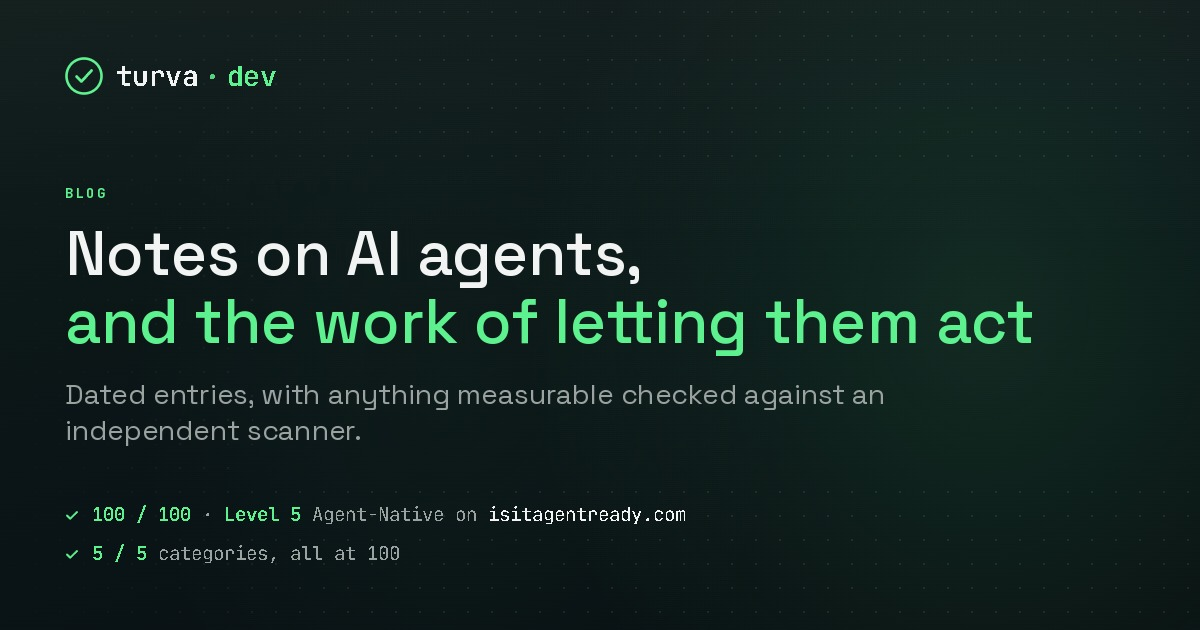
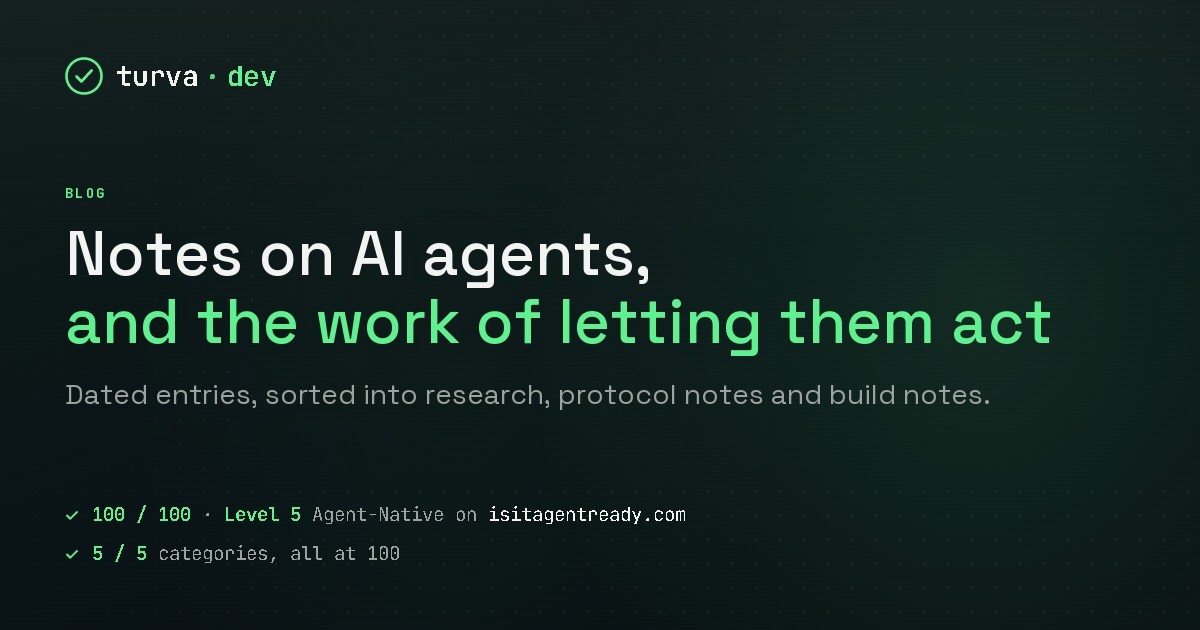
Site 3.213.5. Content fixes from the outside review of 2026-10-07: the AI patch surge post now cites curl's sponsor page and Daniel Stenberg's own reason for ending the bug bounty, and no longer says curl is run by volunteers who cannot fund a filter. Dated corrections in the posts on the clean Wind

Changed region(s): [[0.0925, 0.3619, 0.8942, 0.573], [0.0617, 0.6032, 0.8325, 0.7238], [0.0617, 0.3016, 0.0925, 0.3317]]

diff --git a/turva-worker/src/worker.ts b/turva-worker/src/worker.ts
@@ -1,4 +1,5 @@
 // src/worker.ts
+// turva.dev worker v3.213.5 - fixes from the outside review of 2026-10-07, content session S1 (Tek-578): the AI patch surge post no longer says curl is run by volunteers who cannot fund a filter, and cites curl's sponsor page and Stenberg's own reason for ending the bounty; dated corrections in the posts on the clean Windows install (IVPN boot protection), the Open Knowledge Format (what v0.1 defines) and secret hygiene (an OS vault after a reinstall); the sample report no longer says ai.txt merged into Content Signals; the llms.txt validator states its limits in KiB; the ACP messages and the Shopify page promise a first written reply within one business day, with scope and a fixed quote confirmed in writing before payment; the blog card's subhead and alt text name the three post kinds.
 // turva.dev worker v3.213.4 - the hosted Markdown parity check moves to markdown-parity-check 0.2.29, so a query is masked in one pass and report text drops C1 and bidi controls.
 // turva.dev worker v3.213.3 - the markdown link rule refuses an href carrying a quote, an angle bracket or whitespace (outside review R1-1, 2026-10-22), the disabled phase-2 PARITY path checks the report shape before use (R4-1), and the MCP server card moves to MCP 1.6.22 (the MCP Worker answers a non-JSON Content-Type with 415 and no id).
 // turva.dev worker v3.213.2 - the Shopify agent storefront check's line in LLMS_TXT and in AGENT_JSON's description_for_model (served as ai-plugin.json and agent.json) states that the 48 hours run from the agreed written kickoff, as the audit's line in both already does; re-sign of llms.txt and of ai-plugin.json and agent.json.
@@ -1416,7 +1417,7 @@ A third case I know of is my own code, from before the reinstall, so it is not o
 
 ## What else sits between the machine and the internet?
 
-My connection goes out through IVPN, which I have set to rotate its WireGuard key every day. Its firewall is set to always on, so it starts at boot before any other process and blocks traffic outside the VPN even when the IVPN app is not running. It lets through traffic to IVPN's own servers and to my local network. Windows treats both the IVPN tunnel and my wired connection as public networks, so its firewall applies its most restrictive profile to both. IVPN is behind three of these pieces: it runs the VPN and modDNS, and in December 2024 it bought Safing, the company behind Portmaster. In the IVPN app I have set modDNS as the custom DNS, and it filters with the HaGeZi Threat Intelligence Feeds and Pro lists, plus a HaGeZi list of domains registered within the last seven days. I have checked that my lookups reach it. For one day I collected the domains modDNS blocked, and I copied every one whose block breaks nothing into the Windows hosts file, as a second block in Windows itself. After that they disappeared from the modDNS log, so those lookups now stop in Windows before they reach it. The browsers have a modDNS setup of their own. HaGeZi publishes stricter lists than Pro, so I still count these list choices as relaxed. I use these lists in all my work. If the machine ever reached my router without the VPN, the router runs the NextDNS CLI with much stricter HaGeZi lists. As far as I know, that has never happened without me choosing it.
+My connection goes out through IVPN, which I have set to rotate its WireGuard key every day. Its firewall is set to always on, so on Windows it [applies its blocking rules at boot](https://www.ivpn.net/knowledgebase/general/do-you-offer-a-kill-switch-or-vpn-firewall/), before the system has finished loading, and they block traffic outside the VPN even when the IVPN app is not running. It lets through traffic to IVPN's own servers and to my local network. Windows treats both the IVPN tunnel and my wired connection as public networks, so its firewall applies its most restrictive profile to both. IVPN is behind three of these pieces: it runs the VPN and modDNS, and in December 2024 it bought Safing, the company behind Portmaster. In the IVPN app I have set modDNS as the custom DNS, and it filters with the HaGeZi Threat Intelligence Feeds and Pro lists, plus a HaGeZi list of domains registered within the last seven days. I have checked that my lookups reach it. For one day I collected the domains modDNS blocked, and I copied every one whose block breaks nothing into the Windows hosts file, as a second block in Windows itself. After that they disappeared from the modDNS log, so those lookups now stop in Windows before they reach it. The browsers have a modDNS setup of their own. HaGeZi publishes stricter lists than Pro, so I still count these list choices as relaxed. I use these lists in all my work. If the machine ever reached my router without the VPN, the router runs the NextDNS CLI with much stricter HaGeZi lists. As far as I know, that has never happened without me choosing it.
 
 ## What may an agent session not touch?
 
@@ -1466,6 +1467,8 @@ The clone is a full copy of the system disk. A session that can read it can read
 **What does Block Secure DNS Bypassing do in Portmaster?**
 
 It prevents apps from going past Portmaster's Secure DNS resolver, for example by using DNS over HTTPS or a public resolver. Lookups then go through Portmaster, which can filter them.
+
+Corrected 2026-10-23. The IVPN sentence said its firewall starts at boot before any other process. IVPN's own description makes no claim about process order. On Windows, it says, the persistent firewall applies its blocking rules at boot, before the system is fully loaded, so the sentence now says: "Its firewall is set to always on, so on Windows it applies its blocking rules at boot, before the system has finished loading, and they block traffic outside the VPN even when the IVPN app is not running."
 
 ## Related
 
@@ -3080,9 +3083,9 @@ That has a consequence worth sitting with. Access to Mythos is controlled by Ant
 
 In January 2026 the curl project shut down its bug bounty. Twenty reports arrived in the first twenty-one days of the year, seven of them in one 16-hour window, and none was a real vulnerability, according to [Bugcrowd's account of the shutdown](https://www.bugcrowd.com/blog/hacker-opinion-piece-how-lazy-hacking-killed-curls-bug-bounty). Daniel Stenberg called such reports AI slop. HackerOne reported March 2026 submissions up 76 % year over year, with the share of valid findings steady at roughly 25 % ([HackerOne](https://www.hackerone.com/blog/continuous-threat-exposure-management-remediation-crisis)). Google raised the proof it requires in its open-source reward programme after a surge of low-quality reports ([Google's rule update](https://bughunters.google.com/blog/ossvrp-rule-updates-2026)). GitHub tightened its requirements.
 
-So in the same six months, one organisation shipped 1150 real CVEs and credited AI-assisted discovery for the rise, and another was driven out of the bounty business by AI reports that were worth nothing.
+So in the same six months, one organisation shipped 1150 real CVEs and credited AI-assisted discovery for the rise, and another ended its bug bounty when its share of real findings collapsed, with AI slop the first of three causes its lead developer names.
 
-Same technology. The difference is the prove pipeline. Microsoft built one, with dedicated cloud infrastructure behind it. curl is volunteers, and volunteers cannot fund a filter, so the only move left was to close the door.
+Same technology. The difference is the prove pipeline. Microsoft built one, with dedicated cloud infrastructure behind it. curl has paid backing too: its [sponsor page](https://curl.se/sponsors.html) names Haxx as the primary sponsor and says wolfSSL employs Daniel Stenberg and lets him spend paid work hours on curl. For bounty reports it relied on the platform's reputation system and program settings, and in [his account of the shutdown](https://daniel.haxx.se/blog/2026/01/26/the-end-of-the-curl-bug-bounty/) Stenberg writes that these were not enough to keep the bad reports out. The share of submissions confirmed as vulnerabilities fell from above 15 % in earlier years to below 5 % in 2025, and curl dropped the rewards to remove the incentive to submit made-up reports. Pull requests are a different case, Stenberg writes: tests, scanners and 200 CI jobs check a contribution before anyone spends human time on it, so they are not a problem for curl.
 
 ## Check it yourself
 
@@ -3113,6 +3116,8 @@ Corrected 2026-09-28. A sentence said the two benchmark figures came from condit
 Corrected 2026-10-02. Several sentences claimed more than their sources. The Mythos sentence said Anthropic's own evaluation conditions are not published, and the 2026-09-28 note above repeats it. Anthropic's system card publishes the task count, pass@1 scoring and sampling settings but does not name the CyberGym difficulty level, so it now says: "Microsoft names its side of the setup, the CyberGym default level 1 configuration across 1507 tasks from 188 OSS-Fuzz projects, but Anthropic's system card gives only part of its setup for Mythos, pass@1 over the same 1507 tasks with no extended thinking, and does not name the CyberGym difficulty level, so the two scores cannot be assumed to share a setup, and a gap of 5,35 percentage points does not show that either approach is better." The same sentence also said five points is well inside what a difference in evaluation setup can produce, which no cited source quantifies, so it now says the gap does not show either approach is better. The Microsoft post is longer than about 1400 words and carries ordinary numerals, so the sentence now says it gives no figure for the increase. HackerOne's 76 % is March 2026 against March 2025, not a year through March, and HackerOne reports the valid share steady at roughly 25 %, so the noise claim is gone. The three-quarters-noise wording, the DDoS attribution and the claim that Google stopped taking AI-generated submissions are replaced by what the linked sources say.
 
 Corrected 2026-10-14. This post counted every CVE in each monthly document, including the CVEs other numbering authorities assigned, mostly Chromium CVEs for Edge and Linux CVEs for Azure Linux. Counted as Microsoft-assigned only, the rise is steeper: the eight baseline months average 130 and July 2026 is 663, or 5,1 times. The severity table does not hold under that count. For Microsoft-assigned CVEs the median CVSS was 7,8 in July 2025 and 7,8 in July 2026, with 76,6 % and 74,2 % scoring 7,0 or above. The shift reported above therefore came from the mix of CVEs in the documents and not from Microsoft's own findings. The July 2026 document has also grown to 2005 entries since this post was written, and most of the added entries are Chromium and Linux CVEs. The tables above are left as the endpoint returned them, and the full series is in [the October follow-up](/blog/microsofts-own-cve-count).
+
+Corrected 2026-10-23. The bounty section said curl had no money to fund a filter for reports, so closing the bounty was its only option, and that AI reports worth nothing drove it out of the bounty business. curl's sponsor page contradicts the first claim. Stenberg's own account of the shutdown names three causes, AI slop the first of them, and does not call closing the bounty the only option. The paragraph now says: "curl has paid backing too: its sponsor page names Haxx as the primary sponsor and says wolfSSL employs Daniel Stenberg and lets him spend paid work hours on curl." It gives the reason Stenberg gives for dropping the rewards, and the paragraph before it now says that AI slop is the first of three causes he names.
 
 ## Related
 
@@ -3150,7 +3155,7 @@ Credential managers are built to store one username and password per host. They 
 
 For those, a small file based vault does the job. Encrypt each value with the same OS primitive, keep them in one file, and give it a get command. A deploy script then reads the token when it runs, setting the environment variable from that call instead of from a file on disk. The file is encrypted and tied to your account, so a backup or a stray copy exposes nothing.
 
-Two caveats. A vault tied to your OS user cannot be decrypted after a reinstall, so keep an offline backup of anything you cannot regenerate, like a private signing key. And do not write your own crypto here. Call the OS primitive. It is audited, and it is the same mechanism your credential manager already trusts.
+Two caveats. A vault encrypted with a key from your OS account stays readable after a reinstall only if that key material survived it, through a backup or a migration the platform supports, so keep an offline backup of anything you cannot regenerate, like a private signing key. And do not write your own crypto here. Call the OS primitive. It is audited, and it is the same mechanism your credential manager already trusts.
 
 The vault only changes where a secret sits at rest. It does not by itself stop an agent from reaching the value, because if the agent can run the script that calls get, it can still see what that command returns or read it from the environment of the process it started. Encrypting the secret and scoping what the agent is allowed to run and access at runtime are two separate controls, and the vault only provides the first one.
 
@@ -3175,6 +3180,8 @@ Because the file is no longer only yours. A coding agent reads your files and ru
 Windows Credential Manager caps a single entry at 2560 bytes and some forges issue OAuth tokens past that. The write fails while fetch still works, so nothing looks wrong until every command re-authenticates. Git Credential Manager's Bitbucket provider splits a large token across entries, but its GitLab provider and generic store write one entry, so a token over the limit can still fail there.
 
 Corrected 2026-10-02. Two sentences claimed more than their sources. The Linux sentence said the Secret Service encrypts the value and only your account can decrypt it. It now says: "On Linux libsecret through the Secret Service, whose backend usually encrypts the value at rest. The specification leaves access control to the implementation, so check what your keyring does when the machine is locked and which applications it lets read the value." The credential manager sentence said splitting a large token across entries is how Git Credential Manager handles it for self-hosted forges. At commit 9c3b25d, only the Bitbucket provider splits. It now says: "Git Credential Manager's Bitbucket provider splits a large token across entries. At Git Credential Manager commit 9c3b25d, its GitLab provider and the generic store path write the token as one entry, so the Windows size limit still applies there. If a self-hosted forge keeps opening a browser prompt on push, a token over the limit is one possible cause." The summary and the frequently asked answer on storage still stated the Linux guarantee without that limit, and both now carry it.
+
+Corrected 2026-10-23. The first caveat said such a vault cannot be decrypted after a reinstall. A reinstall that keeps or migrates the key material leaves the vault readable, so the caveat now says: "A vault encrypted with a key from your OS account stays readable after a reinstall only if that key material survived it, through a backup or a migration the platform supports, so keep an offline backup of anything you cannot regenerate, like a private signing key."
 
 ## Related
 
@@ -3474,7 +3481,7 @@ Eight checks examine the file:
 - It includes the recommended blockquote summary directly after the title. A blockquote that comes later but before the first H2 heading gets the same warning with its line number.
 - H2 headings group the content.
 - Markdown links parse and use absolute URLs.
-- The file is small enough to read cheaply. A file over 50 KB gets a warning, and one over 256 KB is read truncated. With --strict, a warning fails the run.
+- The file is small enough to read cheaply. A file over 50 KiB gets a warning, and one over 256 KiB is read truncated. With --strict, a warning fails the run.
 - It contains no inline HTML. HTML produces a warning.
 
 Two more checks look at the home page:
@@ -3853,7 +3860,7 @@ OKF represents a body of knowledge as a folder of markdown files. Each file is o
 
 It is not a data-model format, even though that is how it is being pitched. A concept can be a metric, a runbook or an API just as easily as a table, so framing it mainly as a way to draw data models narrows it to the one use that makes a good demo.
 
-It is also not a semantic standard yet. Version 0.1 fixes the shape of the files, the folder, the frontmatter and the one required field. It does not fix what any field means or how two teams should agree on the same names. The spec itself is clear that this is structural interoperability, with the semantic half left to producers and to conventions that do not exist yet. A shared folder layout is real progress. It is not the same as a shared meaning, and that gap is the whole reason these formats are hard.
+It is also not a semantic standard yet. Version 0.1 fixes the shape of the files, the folder and the frontmatter. It requires a type field and gives a short definition for each of five recommended fields, but it registers no type values and does not say how two teams should agree on the same names. The spec itself is clear that this is structural interoperability, with the semantic half left to producers and to conventions that do not exist yet. A shared folder layout is real progress. It is not the same as a shared meaning, and that gap is the whole reason these formats are hard.
 
 ## Why it still matters
 
@@ -3866,6 +3873,8 @@ An agent-readiness audit asks whether an agent can read your public site. OKF is
 For now OKF is worth understanding and worth watching. It is early to rebuild a knowledge catalog around it. If you already serve clean text to agents, you are most of the way there already.
 
 For an audit of how legibly AI agents read your site and the data behind it, contact info@turva.dev.
+
+Corrected 2026-10-23. A sentence said version 0.1 does not fix what any field means. Section 4.1 of the spec defines the required type field and five recommended fields, so the sentence now says: "It requires a type field and gives a short definition for each of five recommended fields, but it registers no type values and does not say how two teams should agree on the same names."
 
 ## Related
 
@@ -4310,7 +4319,7 @@ The surfaces the scanner does not score, read by hand on 2026-09-03 and 2026-09-
 | /.well-known/ | Empty. Every path under it returns the HTML 404 page with status 200. | F3 and F6 populate it. The soft 404 is F6's first line. |
 | robots.txt | The CMS default. One wildcard group, Disallow: /wp-admin/, no Sitemap line, no AI crawler, no Content-Signal. | F5 |
 | sitemap.xml | 14 URLs. The front page, eleven content pages and two template pages titled Sample Page and Privacy Policy Draft. No product page. | F4 |
-| ai.txt and llms.txt | Neither exists. | F3 publishes llms.txt. ai.txt is not published: the norm it followed has merged into robots.txt Content Signals. |
+| ai.txt and llms.txt | Neither exists. | F3 publishes llms.txt. ai.txt is not published: F5 states the AI preferences in the Content-Signal line of robots.txt, and ai.txt is an optional second place for them. |
 | REST API | /wp-json/wc/store/v1/products, the WooCommerce Store API v1, answers publicly, 100 products per page, two pages, X-WP-Total 138. As the Store API does by default, the listing leaves the variations out. Every row has prices.price as an empty string and is_purchasable true. The other stock fields show 90 rows in stock with no backorder, is_on_backorder true on 41 and is_in_stock false on 7. No field in the response carries a price basis. | F1 corrects the data, F6 declares the API. |
 | OpenAPI description | None. The index at /wp-json/ lists its routes in WordPress's own JSON format, which is not an OpenAPI document, and the site publishes no OpenAPI file. | F6 declares the REST index. An OpenAPI description is added under F6 when the company asks for one. |
 | Old documents still served | /wp-content/uploads/2022/hinnasto-2022.pdf is a 2022 price list with the company's previous Tampere address on its cover, linked from nowhere on the site and indexed by two search engines. | F9 |
@@ -5529,7 +5538,7 @@ You receive the same report, with the matching results recorded. The plan explai
 
 Email [info@turva.dev](mailto:info@turva.dev) with your storefront URL, .myshopify.com domain, primary market and up to three priority products.
 
-I reply within one business day with the preflight and a fixed quote. The work is handled in writing.
+I reply within one business day. The preflight result, the scope and a fixed quote are confirmed in writing before payment, and the work is handled in writing.
 
 [Request a Shopify check](mailto:info@turva.dev?subject=Shopify%20agent%20storefront%20check&body=Storefront%20URL%3A%20%0A.myshopify.com%20domain%3A%20%0APrimary%20market%3A%20%0AUp%20to%20three%20priority%20products%3A%20%0A)
 
@@ -7770,7 +7779,7 @@ const OPENAPI_SPEC = JSON.stringify({
   "openapi": "3.1.0",
   "info": {
     "title": "turva.dev Agent API",
-    "version": "3.213.4",
+    "version": "3.213.5",
     "description": "Read-only metadata + payable endpoints for AI agents. MPP and x402 on the /api/agent/* routes; the x402 manifest also names /x402 and /api as challenge roots. ACP checkout sessions live under /api/acp/checkout_sessions and are stateless. The free endpoint index is /api/v1.",
     "contact": { "name": "Erik Rekola", "email": "info@turva.dev", "url": "https://turva.dev/" },
     "license": { "name": "Proprietary", "url": "https://turva.dev/legal" }
@@ -8071,7 +8080,7 @@ const A2A_AGENT_CARD = JSON.stringify({
   "description": "Public read-only agent interface for turva.dev, an independent agent-readiness audit and advisory business operated by Erik Rekola. Exposes the service catalog with prices, contact channels, and company information over HTTP+JSON. No authentication and no write operations.",
   "url": "https://turva.dev",
   "preferredTransport": "HTTP+JSON",
-  "version": "3.213.4",
+  "version": "3.213.5",
   "provider": {
     "organization": "turva.dev",
     "url": "https://turva.dev/"
@@ -8995,6 +9004,7 @@ const META_BY_PATH = {
     title: "A clean Windows install for agent work · turva.dev",
     description: "How I set up a reinstalled Windows 11 machine for parallel Claude Code sessions, and what each protection layer covers that the others leave open.",
     date: "2026-10-05",
+    modified: "2026-10-23",
     kind: "Build notes",
     image: "/og-clean-windows-install-for-agent-work.jpg",
     imageAlt: "turva.dev card: A clean Windows install for agent work",
@@ -9195,7 +9205,7 @@ const META_BY_PATH = {
     description: "A comparison of selected Microsoft security-update datasets examines changes in reported vulnerability counts and severity, with the comparison limits stated.",
     date: "2026-07-15",
     kind: "Research",
-    modified: "2026-10-14",
+    modified: "2026-10-23",
     image: "/og-measuring-the-ai-patch-surge.jpg",
     imageAlt: "Measuring the AI patch surge from MSRC data"
   },
@@ -9203,7 +9213,7 @@ const META_BY_PATH = {
     title: "Reducing secret exposure in coding-agent workflows · turva.dev",
     description: "Ways to reduce secret exposure when coding agents work with a repository, including credential storage and the permissions around runtime access.",
     date: "2026-07-12",
-    modified: "2026-10-02",
+    modified: "2026-10-23",
     kind: "Build notes",
     image: "/og-agent-secret-hygiene.jpg",
     imageAlt: "turva.dev blog card: Coding agents run with your shell, so plaintext secrets on disk are exposed to them."
@@ -9290,7 +9300,7 @@ const META_BY_PATH = {
     title: "Agent-readiness research and field notes · turva.dev",
     description: "Dated studies and technical notes on website agent-readiness, AI answers and implementation. Read the methods, observations and limitations.",
     image: "/og-blog.jpg",
-    imageAlt: "turva.dev blog card: dated notes on AI agents and the work of letting them act."
+    imageAlt: "turva.dev blog card: dated notes on AI agents and the work of letting them act, sorted into research, protocol notes and build notes."
   },
   "/blog/agent-access-is-now-a-setting": {
     title: "Agent access is now a setting · turva.dev",
@@ -9314,6 +9324,7 @@ const META_BY_PATH = {
     title: "What the Open Knowledge Format is, and what it is not · turva.dev",
     description: "An early reading of Open Knowledge Format version 0.1 separates the file structure it defines from the semantic promises it leaves open.",
     date: "2026-06-27",
+    modified: "2026-10-23",
     kind: "Protocol notes",
     image: "/og-open-knowledge-format.jpg",
     imageAlt: "turva.dev blog card: Google Cloud shipped the Open Knowledge Format. What it is, what it is not yet, and how it relates to an agent-readiness audit."
@@ -12518,7 +12529,7 @@ ${footerHtml()}
 // and every hop is re-guarded: https only, a public DNS name (no IP literals,
 // no localhost/internal names, no ports, no credentials). An off-host or
 // unsafe redirect is never fetched and fails the first check. The fetch times
-// out after 8 seconds and the body read is capped at 256 KB. Results are
+// out after 8 seconds and the body read is capped at 256 KiB. Results are
 // never stored and result pages are served with no-store.
 function normalizeHostInput(raw: unknown): string | null {
   let s = String(raw || "").trim().toLowerCase();
@@ -12659,7 +12670,7 @@ const VALIDATOR_CLIENT_IP = "2a06:98c0:3600::103";
 // The second argument was added for the v2 discovery checks, which need the site's
 // home page as well as its llms.txt. It is one parameter and nothing else moved:
 // the redirect budget, the same-host rule, the credential and port rejections and
-// the 256 KB cap are the guards this function was measured against, and a rewrite
+// the 256 KiB cap are the guards this function was measured against, and a rewrite
 // would have put them back in play for a feature that does not need them.
 async function fetchLlmsTxt(host: string, path?: string, accept?: string): Promise<LlmsFetchResult> {
   const reqApex = host.startsWith("www.") ? host.slice(4) : host;
@@ -13411,7 +13422,7 @@ function validateLlmsTxt(f: LlmsTxtInput): LlmsCheck[] {
     add("links", "warn", "Markdown links an agent can follow", named.length + " links, " + relativeCount + " relative" + (hostless > 0 ? " and " + hostless + " that are not valid http or https URLs" : "") + "; absolute URLs travel better when the file is read out of context");
   }
   if (f.truncated) {
-    add("size", "warn", "Small enough to be cheap to read", "over 256 KB, read truncated");
+    add("size", "warn", "Small enough to be cheap to read", "over 256 KiB, read truncated");
   } else if (f.bytes <= 51200) {
     add("size", "pass", "Small enough to be cheap to read", f.bytes + " bytes");
   } else {
@@ -15280,7 +15291,7 @@ function buildAcpCheckoutSession(serviceId: string, sessionId: string) {
       "type": "info",
       "resolution": "requires_buyer_review",
       "content_type": "plain",
-      "content": "This engagement is scoped and confirmed in writing before payment. turva confirms scope and a fixed quote within one business day. Engagement is async only, with no calls and no calendar links. Agent-initiated instant payment is not available."
+      "content": "First written reply within one business day. Scope and a fixed quote are confirmed in writing before payment. Engagement is async only, with no calls and no calendar links. Agent-initiated instant payment is not available."
     }, {
       "type": "info",
       "content_type": "plain",
@@ -15445,7 +15456,7 @@ async function serveAcpCheckout(request: Request, pathLower: string) {
     if (method !== "POST") {
       return new Response(JSON.stringify({ "type": "invalid_request", "code": "method_not_allowed", "message": "Use POST to complete a checkout session." }, null, 2), { status: 405, headers: acpHeaders("POST, OPTIONS") });
     }
-    return new Response(JSON.stringify({ "type": "processing_error", "code": "intervention_required", "message": "This engagement is confirmed in writing before payment. turva confirms scope and a fixed quote within one business day, then invoices directly. Agent-initiated instant completion is not available. Contact info@turva.dev.", "param": "$.payment_data" }, null, 2), { status: 422, headers: acpHeaders() });
+    return new Response(JSON.stringify({ "type": "processing_error", "code": "intervention_required", "message": "First written reply within one business day. Scope and a fixed quote are confirmed in writing before payment, then turva invoices directly. Agent-initiated instant completion is not available. Contact info@turva.dev.", "param": "$.payment_data" }, null, 2), { status: 422, headers: acpHeaders() });
   }
   return new Response(JSON.stringify({ "type": "invalid_request", "code": "not_found", "message": "Unknown checkout session route." }, null, 2), { status: 404, headers: acpHeaders() });
 }

diff --git a/docs/endpoints.md b/docs/endpoints.md
@@ -1,6 +1,6 @@
 # Endpoints
 
-Every route this Worker serves, copied from the repository README so the README can stay short. The Worker is the single source of truth: if a path is listed here it resolves in `src/worker.ts`, and `node tools/verify.mts --live` fetches a fixed list of public discovery surfaces. Adding `--twins` also fetches every canonical page and its Markdown twin (two paced requests per page). Routes outside that list, such as the PGP key and the MCP registry authentication files, are not fetched by `--live`.
+The public routes this Worker serves, copied from the repository README so the README can stay short. Left out on purpose: the per-recipient brief addresses under `/brief/`, which are unlisted and carry a noindex header, the old paths of the previous site, which redirect to their current pages through `LEGACY_REDIRECTS` in `src/worker.ts`, and the static images in `public/`, such as the OG cards. The Worker is the single source of truth: if a path is listed here it resolves in `src/worker.ts`, and `node tools/verify.mts --live` fetches a fixed list of public discovery surfaces. Adding `--twins` also fetches every canonical page and its Markdown twin (two paced requests per page). Routes outside that list, such as the PGP key and the MCP registry authentication files, are not fetched by `--live`.
 
 | Path | Purpose |
 |---|---|
@@ -19,7 +19,7 @@ Every route this Worker serves, copied from the repository README so the README 
 | `/openapi.json` | OpenAPI description |
 | `/.well-known/api-catalog` | API catalog linkset (RFC 9727) |
 | `/.well-known/ap2` | Agent Payments Protocol pointer |
-| `/.well-known/acp` | Agent Commerce Protocol manifest |
+| `/.well-known/acp` | Agentic Commerce Protocol manifest |
 | `/.well-known/x402` | x402 payment manifest |
 | `/.well-known/ucp` | Universal Commerce Profile |
 | `/.well-known/mpp` | MPP discovery manifest |
@@ -33,6 +33,7 @@ Every route this Worker serves, copied from the repository README so the README 
 | `POST /v1/message:send` | A2A HTTP+JSON transport, revision 0.3.0. Name a skill with `metadata.skillId` |
 | `GET /v1/tasks/{id}`, `POST /v1/tasks/{id}:cancel` | A2A task routes. `message:send` answers at once and never creates a task, so a GET on a task id and a cancel on a task id both answer -32001 task not found with status 404 |
 | `/api/agent/audit`, `/api/agent/advisory`, `/api/agent/implementation` | x402 payable service routes (HTTP 402, quote-on-request) |
+| `/api/acp` | Agentic Commerce Protocol base: lists the checkout session routes and points at the discovery manifest |
 | `/api/acp/checkout_sessions` | ACP checkout sessions (stateless, buyer review before payment) |
 | `/.well-known/agent-skills/<name>/skill.md` | Individual agent skill files |
 | `/.well-known/signatures.json` | Ed25519 signatures for the signed manifests |
@@ -40,16 +41,17 @@ Every route this Worker serves, copied from the repository README so the README 
 | `/.well-known/security.txt` | Security contact (RFC 9116) |
 | `/pgp-key.asc`, `/.well-known/pgp-key.asc` | OpenPGP version 4 Ed25519 public key, the key Web Key Directory serves |
 | `/pgp-key-v6.asc` | OpenPGP version 6 post-quantum public key: ML-DSA-65+Ed25519 signing key with an ML-KEM-768+X25519 encryption subkey |
-| `/.well-known/openpgpkey/policy` | WKD advanced method policy for turva.dev |
-| `/.well-known/openpgpkey/hu/<hash>` | WKD advanced method key lookup for turva.dev |
+| `/.well-known/openpgpkey/policy` | WKD direct method policy for turva.dev |
+| `/.well-known/openpgpkey/hu/<hash>` | WKD direct method key lookup for turva.dev |
 | `/.well-known/mcp-registry-auth` | Public key that proves this domain to the MCP registry for `dev.turva/turva-mcp` (HTTP domain authentication) |
 | `openpgpkey.turva.dev/.well-known/openpgpkey/turva.dev/policy`, `openpgpkey.turva.dev/.well-known/openpgpkey/turva.dev/hu/<hash>` | WKD advanced method on its own subdomain, required for the DNS record to resolve (Tek-288) |
+| `mta-sts.turva.dev/.well-known/mta-sts.txt` | MTA-STS policy for mail sent to turva.dev, served on its own subdomain |
 | `/x402` | HTTP 402 payment-required endpoint |
 | `/robots.txt` | Crawler directives |
 | `/sitemap.xml` | URL index |
 | `/blog/feed.xml` | Blog RSS feed |
 | `/<indexnow-key>.txt` | IndexNow key file. A weekly cron resubmits the canonical pages whose sitemap date falls in the last eight days |
-| Aliases | `/ai.txt`, `/security.txt`, `/.well-known/mcp.json`, `/.well-known/openid-configuration`, `/.well-known/openapi.json`, favicons, and fediverse redirects (`host-meta`, `webfinger`, `nodeinfo`) |
+| Aliases | `/ai.txt`, `/security.txt`, `/.well-known/mcp.json`, `/.well-known/openid-configuration`, `/.well-known/openapi.json`, `/api-catalog`, `/.well-known/ap2.json`, `/.well-known/acp.json`, `/.well-known/acp/config.json`, `/.well-known/acp/manifest.json`, `/.well-known/a2a/agent-card.json`, `/agent/auth/revocation`, favicons and fediverse redirects (`host-meta`, `webfinger`, `nodeinfo`) |
 | `/llms-txt-validator` | llms.txt structure checker (HTML form, JSON for agents) |
 | `/markdown-parity-check` | Main-content comparison of this site's pages with the markdown-parity-check package (HTML form, JSON POST for agents); `/markdown-parity-check.js` adds the busy state and the JSON copy and save, and the form works without it |
 | `/badge` and `/badge.svg` | Agent-ready badge criteria and embeddable SVG |
